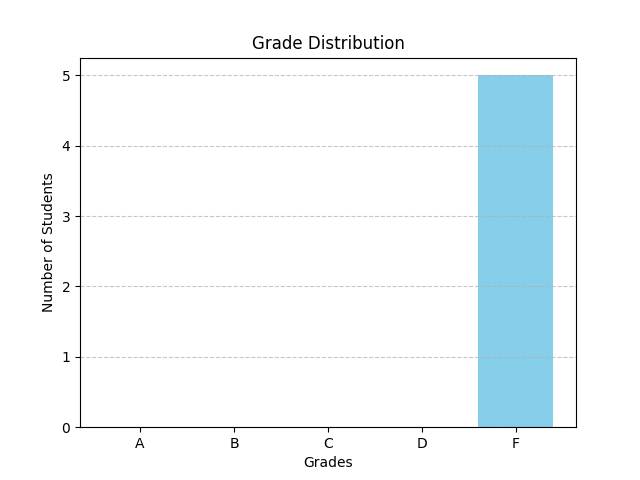
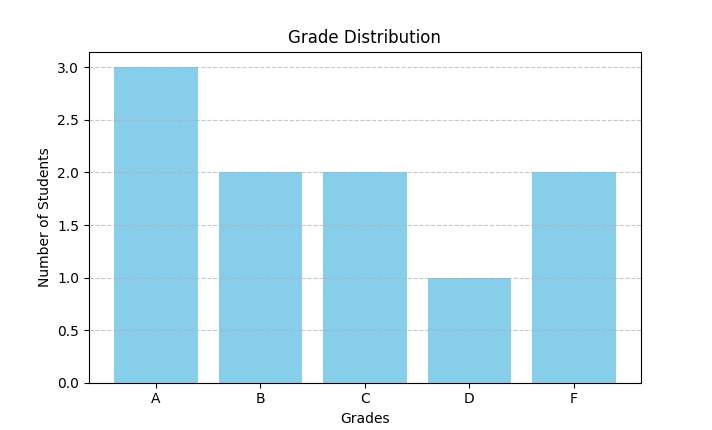
added code to print pdf, generated new png, pdf and csv using new data

diff --git a/results_analyzer.py b/results_analyzer.py
@@ -3,7 +3,7 @@
 import statistics
 import csv
 import matplotlib.pyplot as plt
-
+from fpdf import FPDF
 
 def get_grade(score):
     if score >= 70:
@@ -55,8 +55,9 @@ def main():
     grade_labels = ['A', 'B', 'C', 'D', 'F']
     grade_counts = [grades.count(g) for g in grade_labels]
 
+    plt.figure(figsize=(7.12, 4.3)) 
     plt.bar(grade_labels, grade_counts, color='skyblue')
-    plt.xlabel('Grades')
+    plt.xlabel('Grades')    
     plt.ylabel('Number of Students')
     plt.title('Grade Distribution')
     plt.grid(axis='y', linestyle='--', alpha=0.7)
@@ -64,13 +65,37 @@ def main():
     plt.close()
     print("Grade distribution chart saved as 'grade_chart.png'")
 
-    # Save to CSV
-    with open("results_summary.csv", "w", newline="") as file:
-        writer = csv.DictWriter(file, fieldnames=["Name", "Score", "Grade"])
-        writer.writeheader()
-        writer.writerows(students)
+    # # Save to CSV
+    # with open("results_summary.csv", "w", newline="") as file:
+    #     writer = csv.DictWriter(file, fieldnames=["Name", "Score", "Grade"])
+    #     writer.writeheader()
+    #     writer.writerows(students)
 
-    print("\nResults saved to 'results_summary.csv'.")
+    # print("\nResults saved to 'results_summary.csv'.")
 
+    # Save to PDF
+    pdf = FPDF()
+    pdf.add_page()
+    pdf.set_font("Arial", size=12)
+
+    pdf.set_font("Arial", style='B', size=14)
+    pdf.cell(200, 10, txt="Results Summary", ln=True, align='C')
+    pdf.ln(10)
+
+    pdf.set_font("Arial", style='B', size=12)
+    pdf.cell(60, 10, "Name", border=1)
+    pdf.cell(40, 10, "Score", border=1)
+    pdf.cell(40, 10, "Grade", border=1)
+    pdf.ln()
+
+    pdf.set_font("Arial", size=12)
+    for student in students:
+        pdf.cell(60, 10, student["Name"], border=1)
+        pdf.cell(40, 10, str(student["Score"]), border=1)
+        pdf.cell(40, 10, student["Grade"], border=1)
+        pdf.ln()
+
+    pdf.output("results_summary.pdf")
+    print("\nResults saved to 'results_summary.pdf'.")
 if __name__ == "__main__":
     main()
